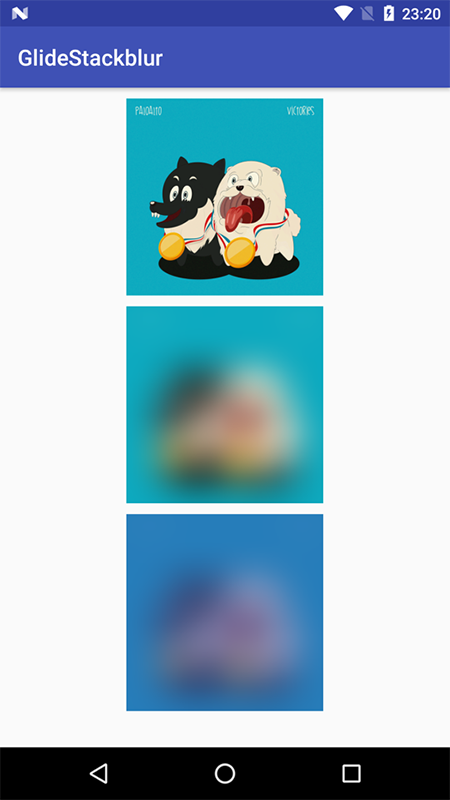
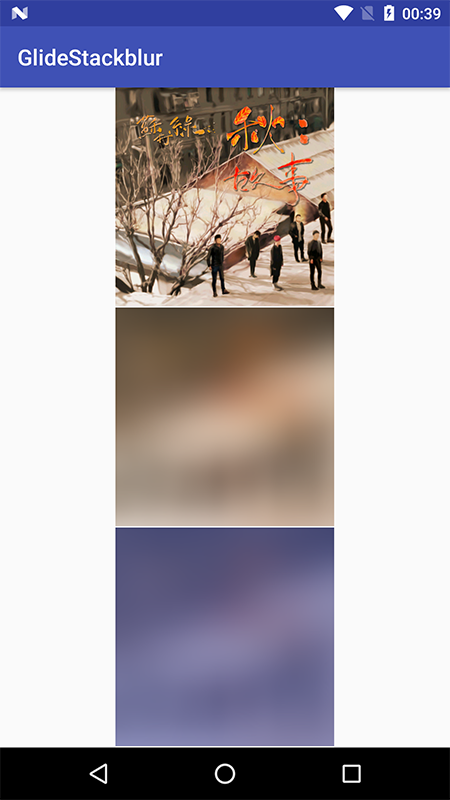
fix bug

diff --git a/glide-stackblur/src/main/java/cn/gavinliu/android/lib/glide/stackblur/GlideStackBlur.java b/glide-stackblur/src/main/java/cn/gavinliu/android/lib/glide/stackblur/GlideStackBlur.java
@@ -3,10 +3,10 @@ package cn.gavinliu.android.lib.glide.stackblur;
 import android.content.Context;
 import android.graphics.Bitmap;
 import android.graphics.Canvas;
-import android.graphics.Matrix;
 import android.graphics.Paint;
 import android.graphics.PorterDuff;
 import android.graphics.PorterDuffColorFilter;
+import android.util.Log;
 
 import com.bumptech.glide.load.engine.bitmap_recycle.BitmapPool;
 import com.bumptech.glide.load.resource.bitmap.BitmapTransformation;
@@ -15,15 +15,15 @@ import com.bumptech.glide.load.resource.bitmap.BitmapTransformation;
  * Created by Gavin on 2016/11/04.
  */
 
-public class GlideStackBlurTransformation extends BitmapTransformation {
+public class GlideStackBlur extends BitmapTransformation {
 
     private TintColorGenerator mTintColorGenerator;
 
-    public GlideStackBlurTransformation(Context context) {
+    public GlideStackBlur(Context context) {
         super(context);
     }
 
-    public GlideStackBlurTransformation(Context context, TintColorGenerator tintColorGenerator) {
+    public GlideStackBlur(Context context, TintColorGenerator tintColorGenerator) {
         super(context);
         mTintColorGenerator = tintColorGenerator;
     }
@@ -31,7 +31,7 @@ public class GlideStackBlurTransformation extends BitmapTransformation {
     @Override
     protected Bitmap transform(BitmapPool pool, Bitmap toTransform, int outWidth, int outHeight) {
         if (toTransform != null) {
-            toTransform = BitmapUtils.catBitmap(toTransform, outWidth, outHeight, Matrix.ScaleToFit.CENTER, true);
+            long startTime = System.currentTimeMillis();
 
             BlurUtils blurManager = new BlurUtils(toTransform);
             Bitmap blur = blurManager.process(40);
@@ -51,6 +51,11 @@ public class GlideStackBlurTransformation extends BitmapTransformation {
             canvas.drawBitmap(blur, 0, 0, paint);
 
             blurManager.recycle();
+
+            Log.d("GlideStackBlur", outWidth + "," + outHeight + "  Time: " + (System.currentTimeMillis() - startTime));
+            if (BuildConfig.DEBUG) {
+            }
+
             return result;
         }
 
@@ -59,7 +64,7 @@ public class GlideStackBlurTransformation extends BitmapTransformation {
 
     @Override
     public String getId() {
-        String id = "cn.gavinliu.android.lib.glide.stackblur.GlideStackBlurTransformation";
+        String id = "cn.gavinliu.android.lib.glide.stackblur.GlideStackBlur";
         if (mTintColorGenerator != null) {
             id += mTintColorGenerator.getId();
         }

diff --git a/app/src/main/java/cn/gavinliu/glidestackblur/MainActivity.java b/app/src/main/java/cn/gavinliu/glidestackblur/MainActivity.java
@@ -7,8 +7,9 @@ import android.os.Bundle;
 import android.widget.ImageView;
 
 import com.bumptech.glide.Glide;
+import com.bumptech.glide.load.resource.bitmap.CenterCrop;
 
-import cn.gavinliu.android.lib.glide.stackblur.GlideStackBlurTransformation;
+import cn.gavinliu.android.lib.glide.stackblur.GlideStackBlur;
 
 public class MainActivity extends AppCompatActivity {
 
@@ -21,7 +22,7 @@ public class MainActivity extends AppCompatActivity {
         ImageView imageView2 = (ImageView) findViewById(R.id.image2);
         ImageView imageView3 = (ImageView) findViewById(R.id.image3);
 
-        String url = "http://img.xiami.net/images/upload/10-27/186947296.jpg";
+        String url = "http://img.xiami.net/images/album/img48/3048/3714265921440496645.jpg";
         int imageSize = getResources().getDimensionPixelSize(R.dimen.image_size);
         ColorDrawable placeHolder = new ColorDrawable(0xFFDEDEDE);
 
@@ -34,18 +35,16 @@ public class MainActivity extends AppCompatActivity {
         Glide.with(this).load(url)
                 .placeholder(placeHolder)
                 .override(imageSize, imageSize)
-                .centerCrop()
-                .transform(new GlideStackBlurTransformation(this))
+                .transform(new CenterCrop(this), new GlideStackBlur(this))
                 .into(imageView2);
 
         Glide.with(this).load(url)
                 .placeholder(placeHolder)
                 .override(imageSize, imageSize)
-                .centerCrop()
-                .transform(new GlideStackBlurTransformation(this))
-                .transform(new GlideStackBlurTransformation(this, new GlideStackBlurTransformation.TintColorGenerator() {
+                .transform(new CenterCrop(this), new GlideStackBlur(this, new GlideStackBlur.TintColorGenerator() {
                     @Override
                     public int generate(Bitmap bitmap) {
+                        // You can use palette generate dynamic color
                         return 0x803F51B5;
                     }
 

diff --git a/README.md b/README.md
@@ -5,30 +5,34 @@
 * stackblur for glide
 * tint color on blur image
 
-## Screenshot
+## Screenshots
 
 ![](/screenshots.png)
 
 ## Usage
 
-### dependencies
+### Dependencies
 
-### GlideStackBlurTransformation
+```
+compile 'cn.gavinliu.android.lib:glide-stackblur:1.0'
+```
+
+### GlideStackBlur
 
 ```java
 Glide.with(this).load(url)
         ...
-        .transform(new GlideStackBlurTransformation(this))
+        .transform(new GlideStackBlur(this))
         ...
         .into(imageView);
 ```
 
-### GlideStackBlurTransformation with TintColor
+### GlideStackBlur with TintColor
 
 ```java
 Glide.with(this).load(url)
         ...
-        .transform(new GlideStackBlurTransformation(this, new GlideStackBlurTransformation.TintColorGenerator() {
+        .transform(new GlideStackBlur(this, new TintColorGenerator() {
             @Override
             public int generate(Bitmap bitmap) {
                 // You can use palette generate dynamic color
